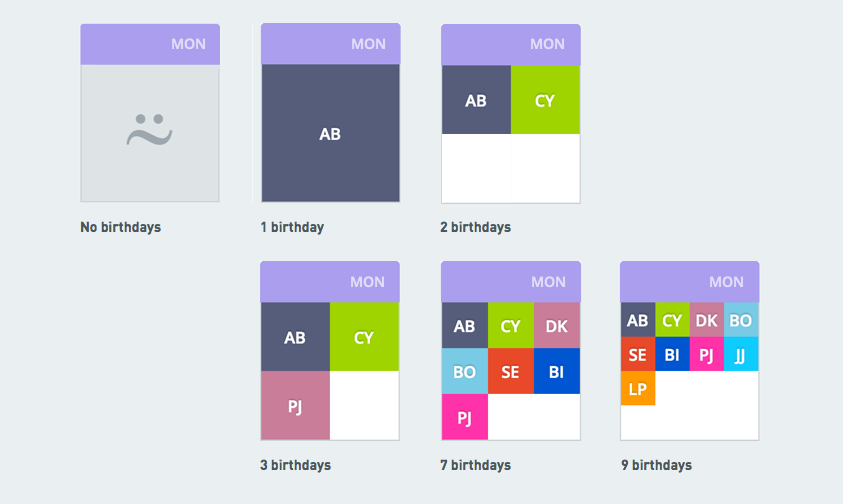
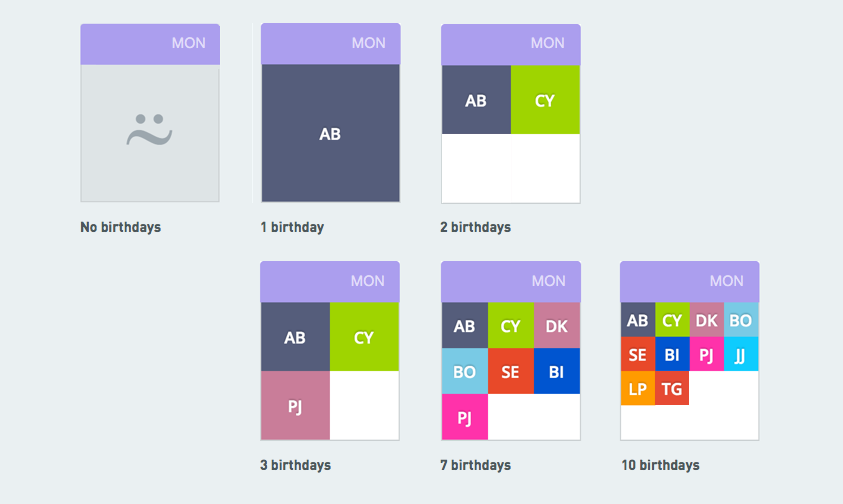
Update example and problem description.

diff --git a/index.html b/index.html
@@ -19,19 +19,35 @@
         <div class="intro ">
           <div class="intro__task">
             <p>
-              <strong>Birthday Cal</strong> is a week long calendar!
+              <strong>Birthday Cal</strong> is a weekday calendar!
             </p>
             <p>
-              Render a card for each day of the week.
-              For a given <em>year</em>, figure out whose birthday belongs to which card.
-              Place people's initials in the card according to these rules -
+              You've a list of people. Say -
+            </p>
+            <pre>
+ A = 2/15/1978
+ B = 5/23/1983</pre>
+            <p>
+              User inputs the year as "2015".
+            </p>
+            <p>
+              So, <br />
+              A's birthday in 2015 will fall into Sunday (because 2/15/2015 is Sunday).
+              B's birthday will fall into Saturday (because 5/23/2015 is Saturday)
+            </p>
+            <p>
+              You've to put A in Sunday's box. And B in Saturday's box
+              on the calendar.
+            </p>
+            <p>
+              Process the given json input and place people's initials in the card according to these rules -
             </p>
             <p>
               <ul>
+                <li>If there a box is empty, it should add the day--empty class to the box.</li>
                 <li>Each person must always be rendered as square</li>
-                <li>Use person's initials to label birthdays</li>
                 <li>Order people inside the card based on their age (youngest to oldest)</li>
-                <li>Each square in a card must be of equal size and should fill up as much space in the card as possible</li>
+                <li>Each square in a card must be of equal size and fit them in such a way that every person occupies maximum area.</li>
               </ul>
             </p>
             <p>
@@ -53,7 +69,10 @@
                   Use <code>day--empty</code> class on <code>.cal__day</code> to render empty calendar dates. Use <code>.day__person</code> to render birthdays. See source.
                 </li>
                 <li>
-                  Submit back the completed task as a compressed zip of this git repo with your commits on top. Feel free to share over Dropbox / Email.
+                  Submit back the completed task as a compressed zip of
+                  the git repository with your commits. Feel free to
+                  share over Dropbox / Email. <br /><br />
+                  <strong>Do not</strong> put it up on github.
                 </li>
               </ul>
             </p>
